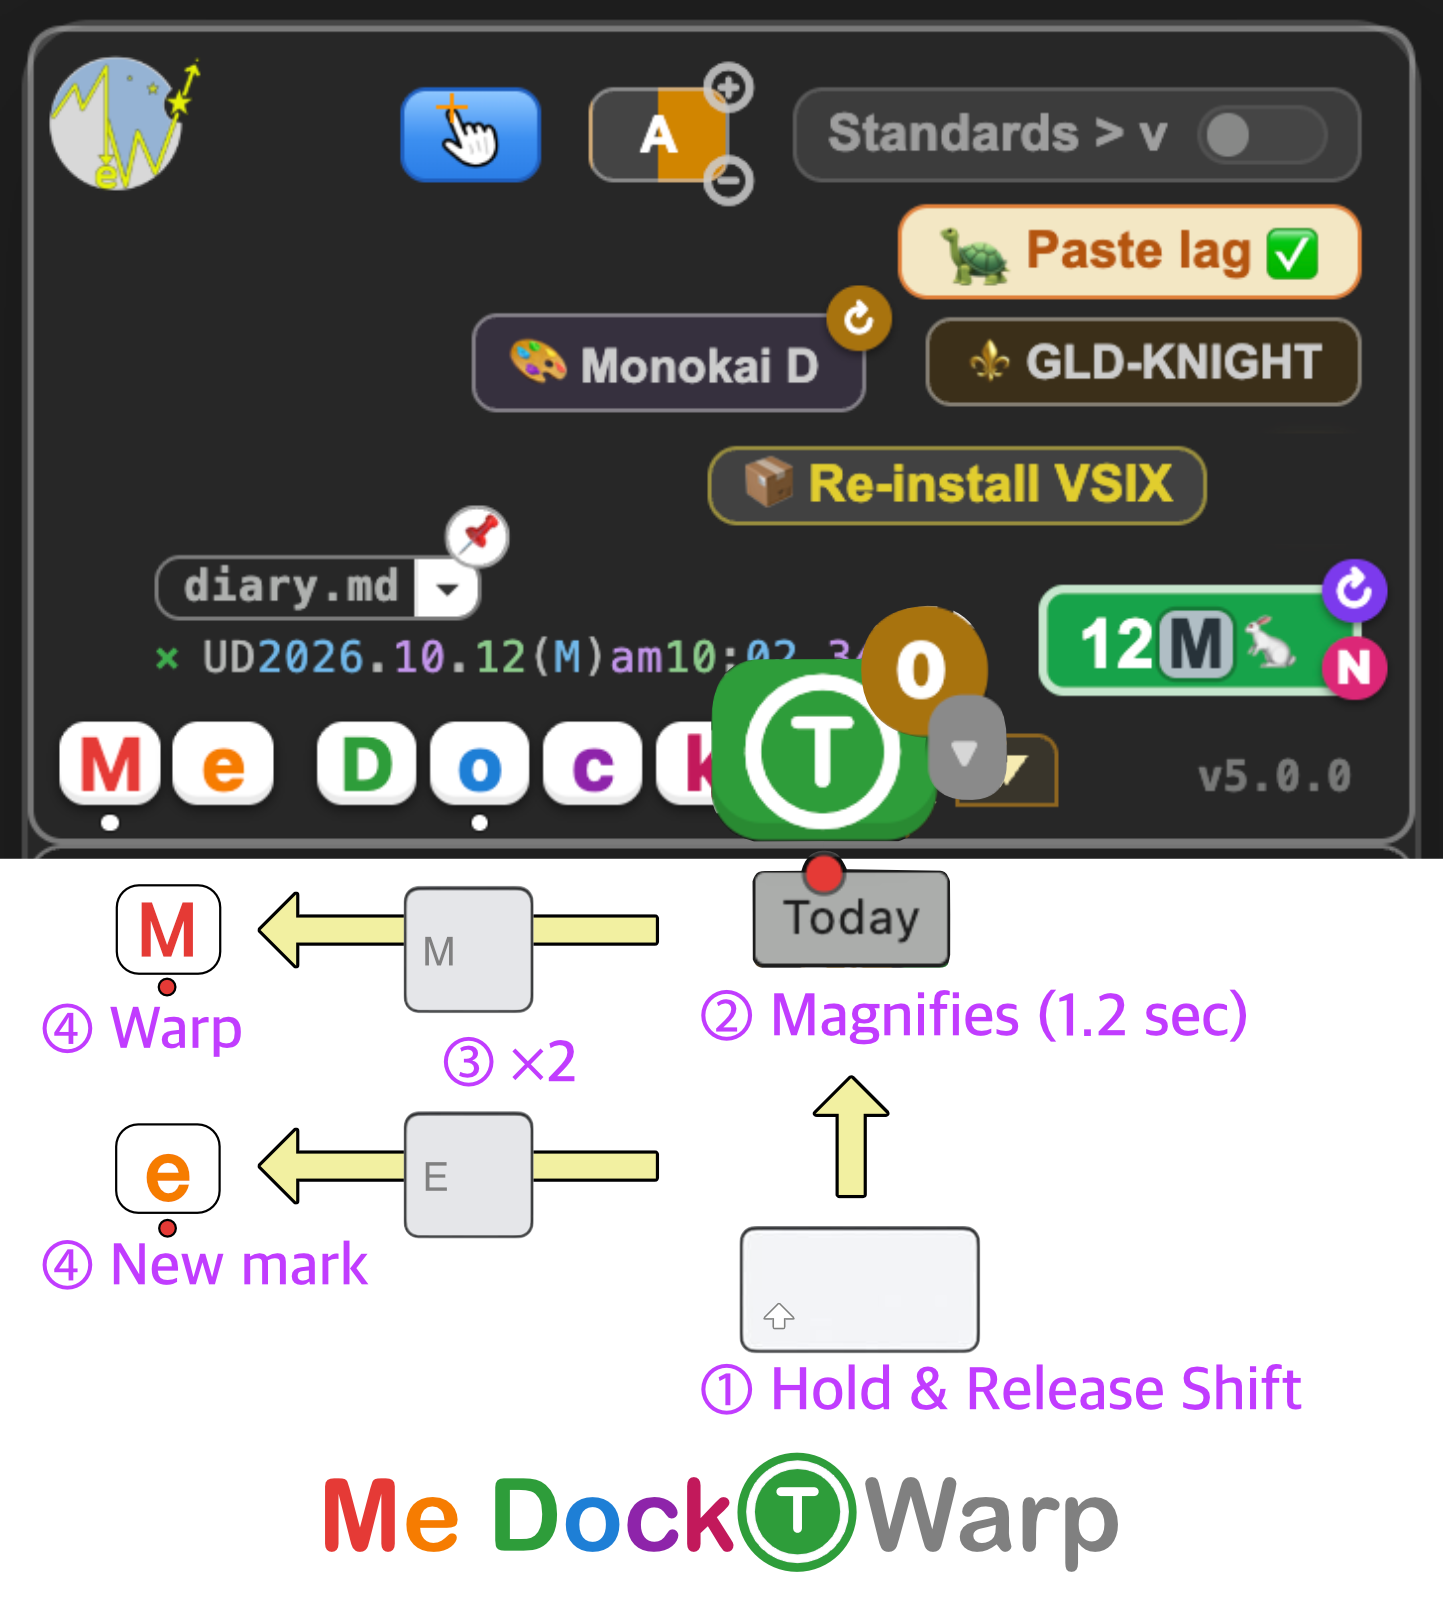
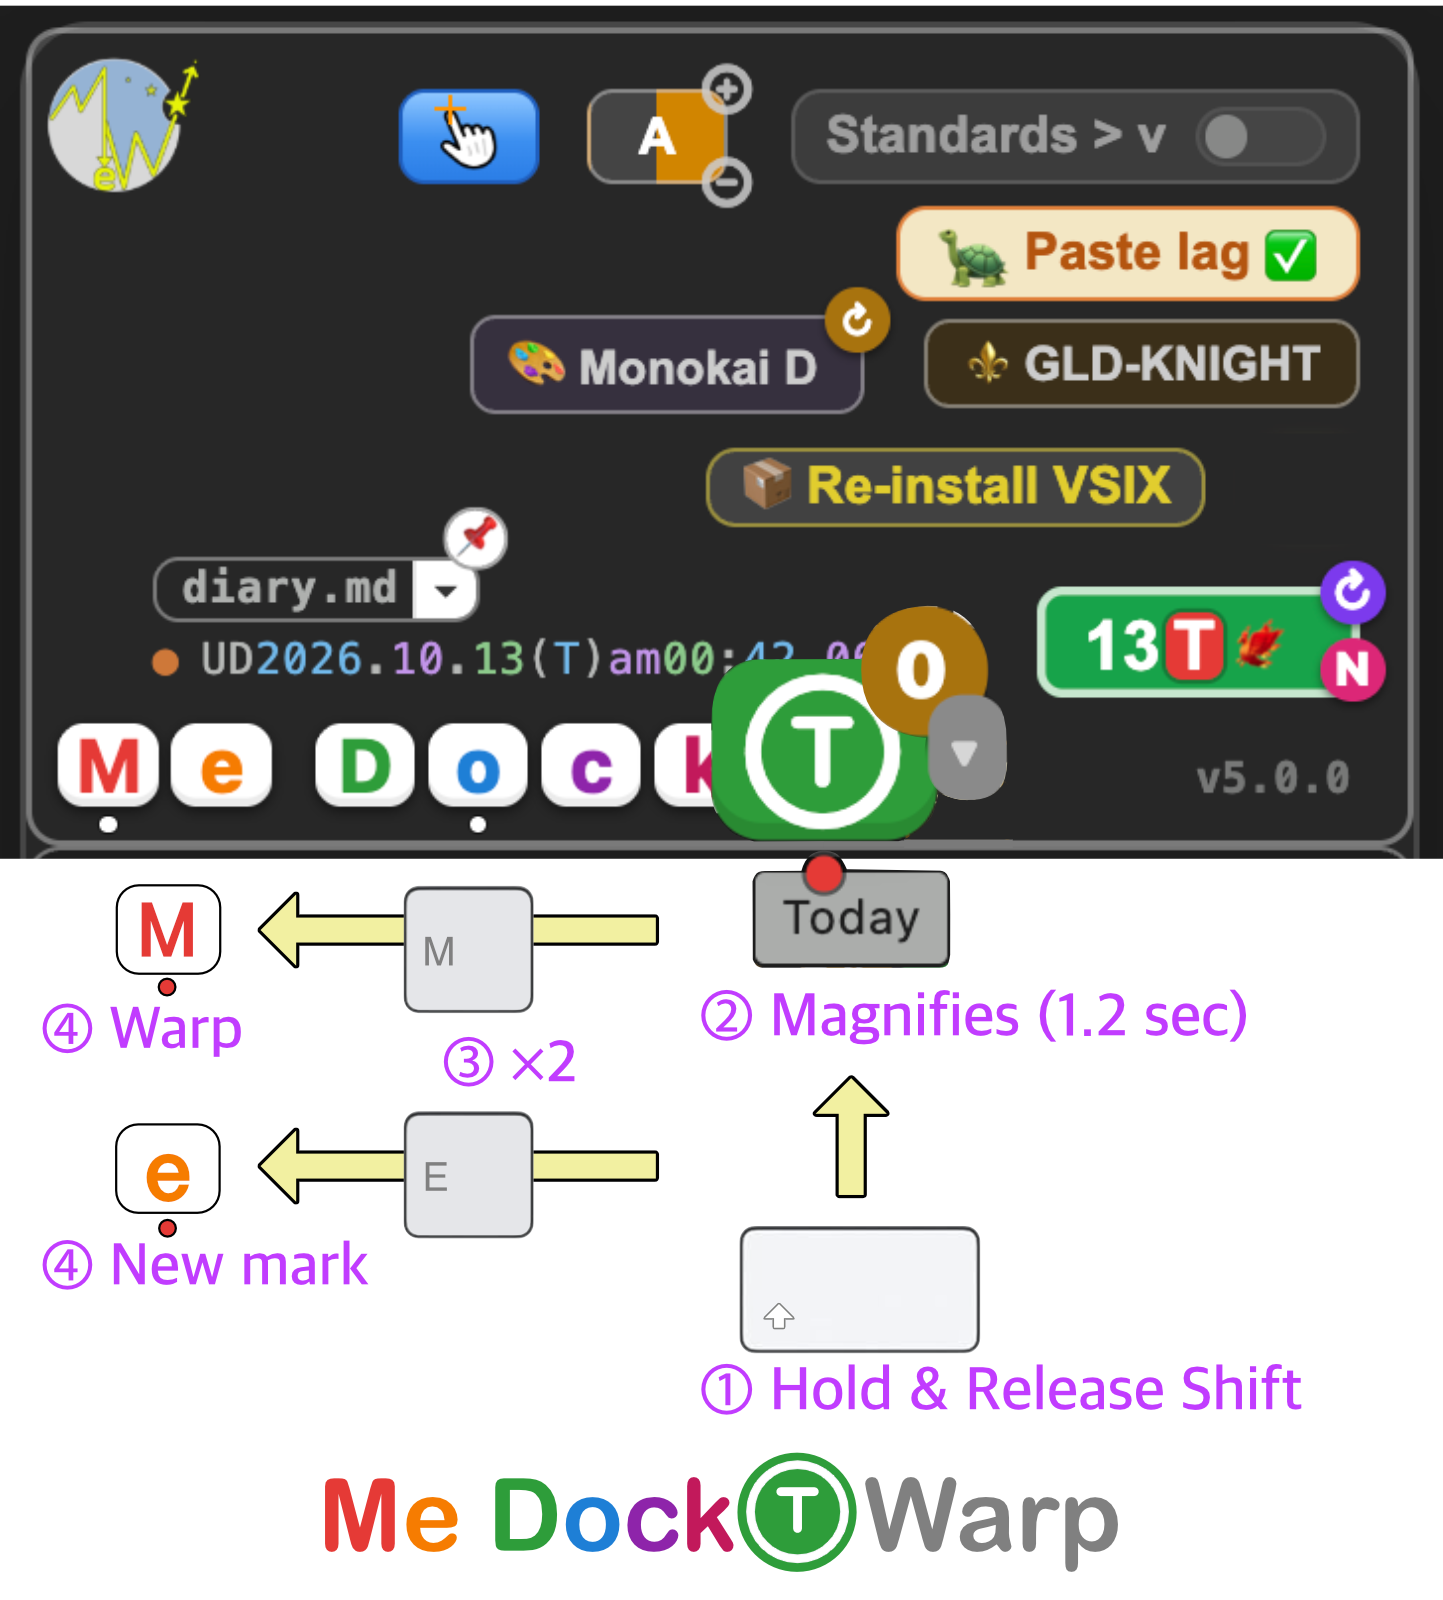
README: ヒーロー画像#7 ver4 と v5.0-medock を差し替え(H-IDXの▼が正しい位置・13T🐦🔥)・説明を火曜の朱雀に

diff --git a/README.md b/README.md
@@ -233,8 +233,8 @@ change the wrap width this directly.
   *Markdown Language Features* for that workspace, which was the cause we measured.
 
 <p align="center">
-  <img src="https://raw.githubusercontent.com/LAIxai/MeOS/main/media/hero/v5.0-medock.png" alt="The new Me Dock at its narrowest width - the MeOS logo with the BTRON hand, the Me Dock title tiles, the Today button showing 12M with a rabbit, Format Me, Current Me, Encrypt Me, Navigate Me!, the Contents switch, Timed Me-System and Hyper TOC" width="40%"><br>
-  <sub><b>The new Me Dock.</b> Nothing like the one you knew — and still neatly in line at its narrowest width. Look closer: the angle of the pointer, the red × on its hotspot, the creases of the hand. And top right, <b>12M🐇</b>: today is the 12th, a Monday — the weekday on its Five Elements colour, with its guardian, the Moon Rabbit.</sub>
+  <img src="https://raw.githubusercontent.com/LAIxai/MeOS/main/media/hero/v5.0-medock.png" alt="The new Me Dock at its narrowest width - the MeOS logo with the BTRON hand, the Me Dock title tiles, the Today button showing 13T with a fire bird, Format Me, Current Me, Encrypt Me, Navigate Me!, the Contents switch, Timed Me-System and Hyper TOC" width="40%"><br>
+  <sub><b>The new Me Dock.</b> Nothing like the one you knew — and still neatly in line at its narrowest width. Look closer: the angle of the pointer, the red × on its hotspot, the creases of the hand. And top right, <b>13T🐦🔥</b>: today is the 13th, a Tuesday — the weekday on its Five Elements colour (red, for fire), with its guardian, the Vermilion Bird.</sub>
 </p>
 
 <p align="center">
